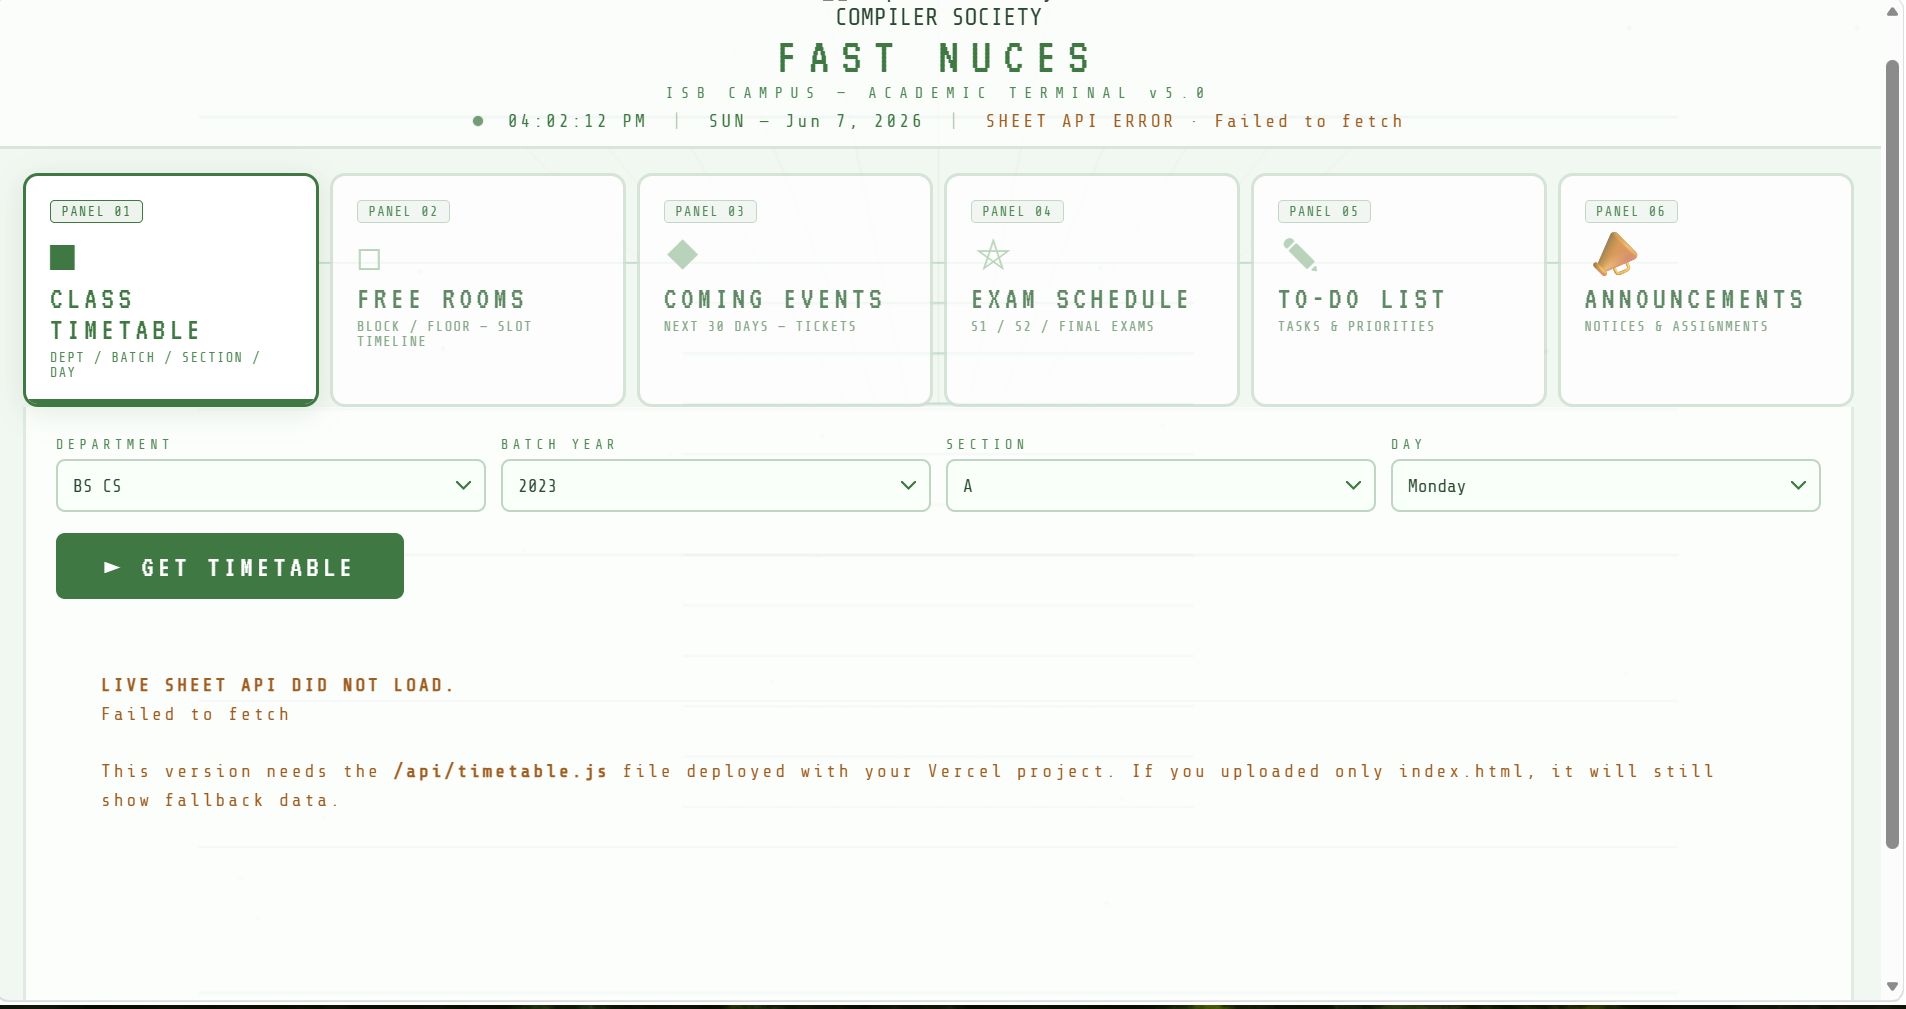
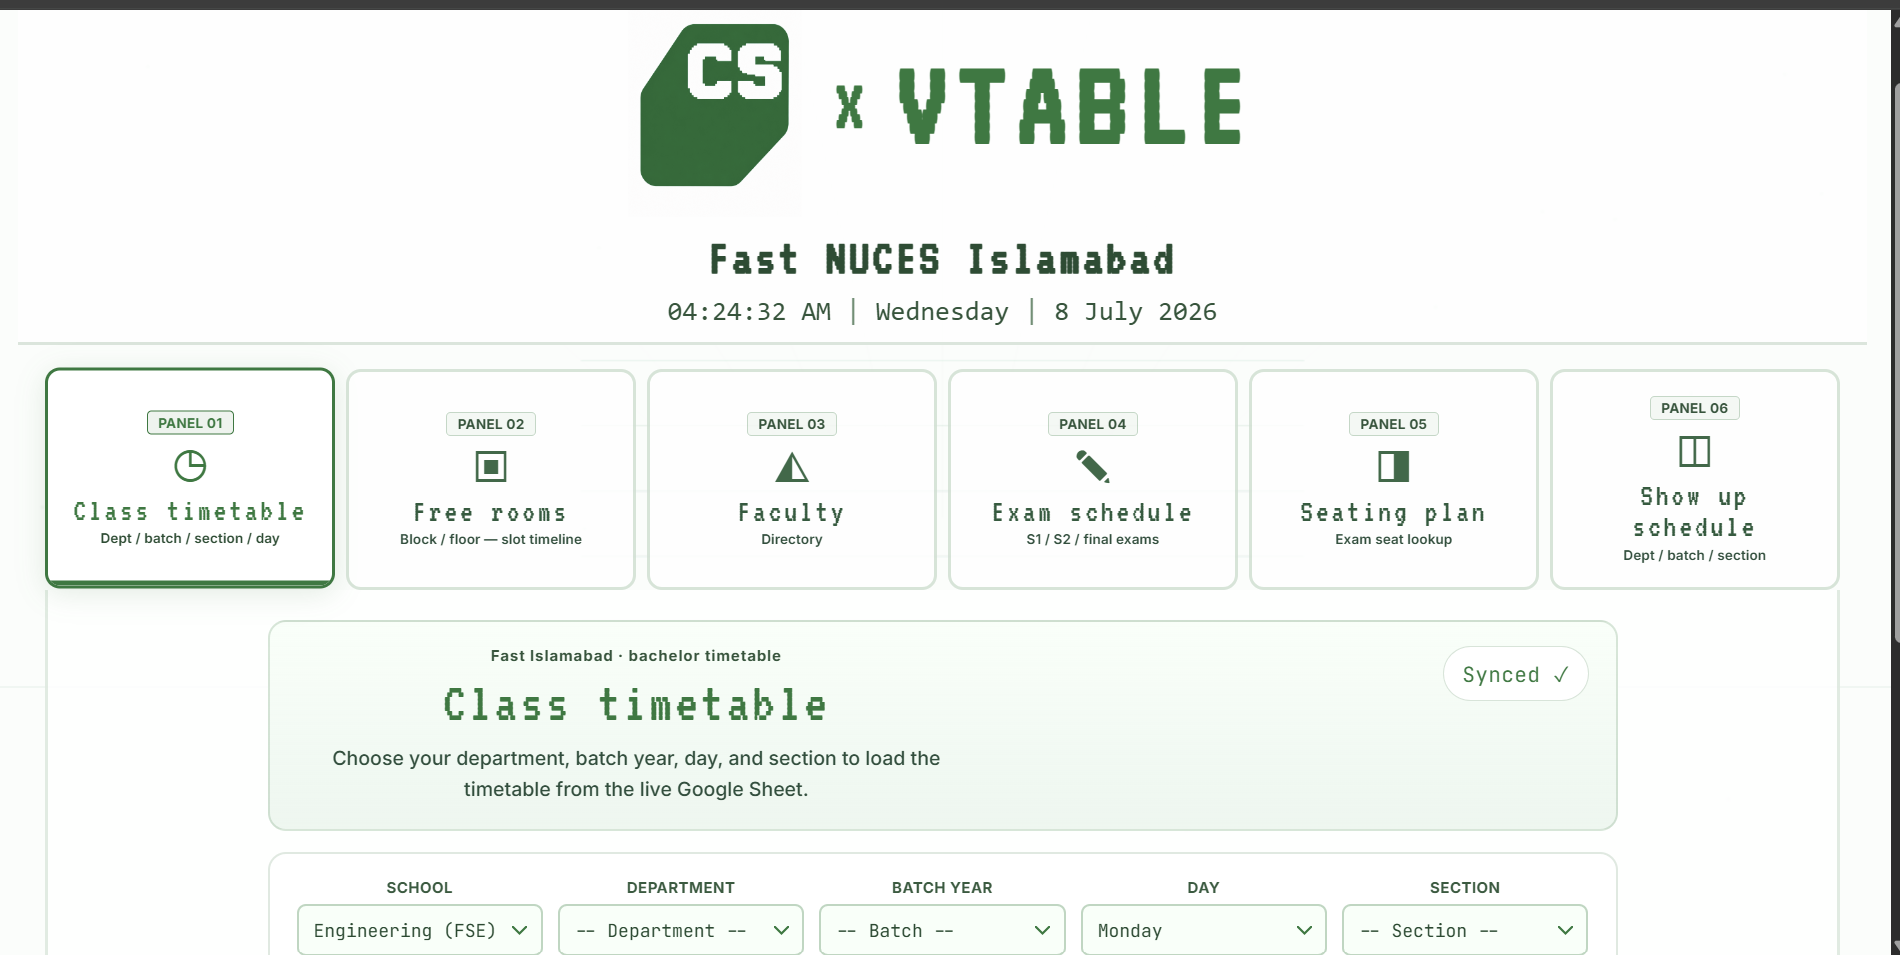
Updated visuals in ReadMe

diff --git a/README.md b/README.md
@@ -54,6 +54,30 @@ Our mission is to streamline the FAST experience across all campuses and program
 
 ![Homepage](Visuals/HomepageCompiler.png)
 
+### Timetable
+
+![Timetable](Visuals/TimeTable.png)
+
+The timetable view is the main academic lookup tool in VTable. It is self evident by design: you enter your school, degree, batch, and section, and the app shows the timetable that matches those choices. This removes the need to search through large spreadsheet tabs just to find one section's schedule. The result is presented in a clean daily layout so students can quickly see their classes, rooms, and time slots. It is meant for fast checking before class, between lectures, or while planning the rest of the day. Because the filters match the way FAST students already think about their schedules, the flow stays simple and familiar. The goal is to make timetable lookup feel instant instead of like digging through a maze of Excel sheets.
+
+### Faculty
+
+![Faculty](Visuals/Faculty.png)
+
+The faculty section works like a searchable dictionary of teaching faculty at FAST. It keeps faculty information organized by school and department so students can quickly narrow down who they are looking for. Instead of relying on scattered contacts, old screenshots, or word of mouth, the page gives one structured place to browse faculty details. This is especially useful when a student needs to find a teacher, check a department, or locate official faculty information quickly. The interface is built for lookup rather than decoration, so the important details stay easy to scan. It also helps make department information feel less fragmented across different sources. In short, the faculty view turns teaching staff data into something students can actually search and use.
+
+### FreeRooms
+
+![FreeRooms](<Visuals/FreeRooms .png>)
+
+FreeRooms tells you which rooms are free for a given block, day, and floor. It is built for the very real campus problem of needing a place to sit, study, work on a project, or hold a quick meeting. Instead of walking around and checking rooms manually, students can filter the view and see availability from the app. The block and floor filters make the search practical because students usually care about where they already are, not every room on campus. The day selection helps the room list stay tied to the current academic schedule. This makes the tool useful both for quick decisions and for planning ahead between classes. FreeRooms is meant to turn the empty-room hunt into a simple lookup.
+
+### Compiler Run
+
+![Compiler Run](Visuals/CompilerRun.png)
+
+Compiler Run is a small computer-themed version of the Chrome dinosaur game. It is hidden inside the VTable experience as a playful break from the more practical tools. The runner keeps the same simple idea: avoid obstacles, survive longer, and chase a better score. Instead of the classic dinosaur theme, the visuals are styled around computers and the Compiler Society identity. It gives the project a little personality without getting in the way of the timetable, faculty, or room tools. The game is intentionally lightweight, quick to understand, and easy to replay. It is there because a campus utility can still have a bit of fun tucked inside it.
+
 
 
 ## Compiler Society